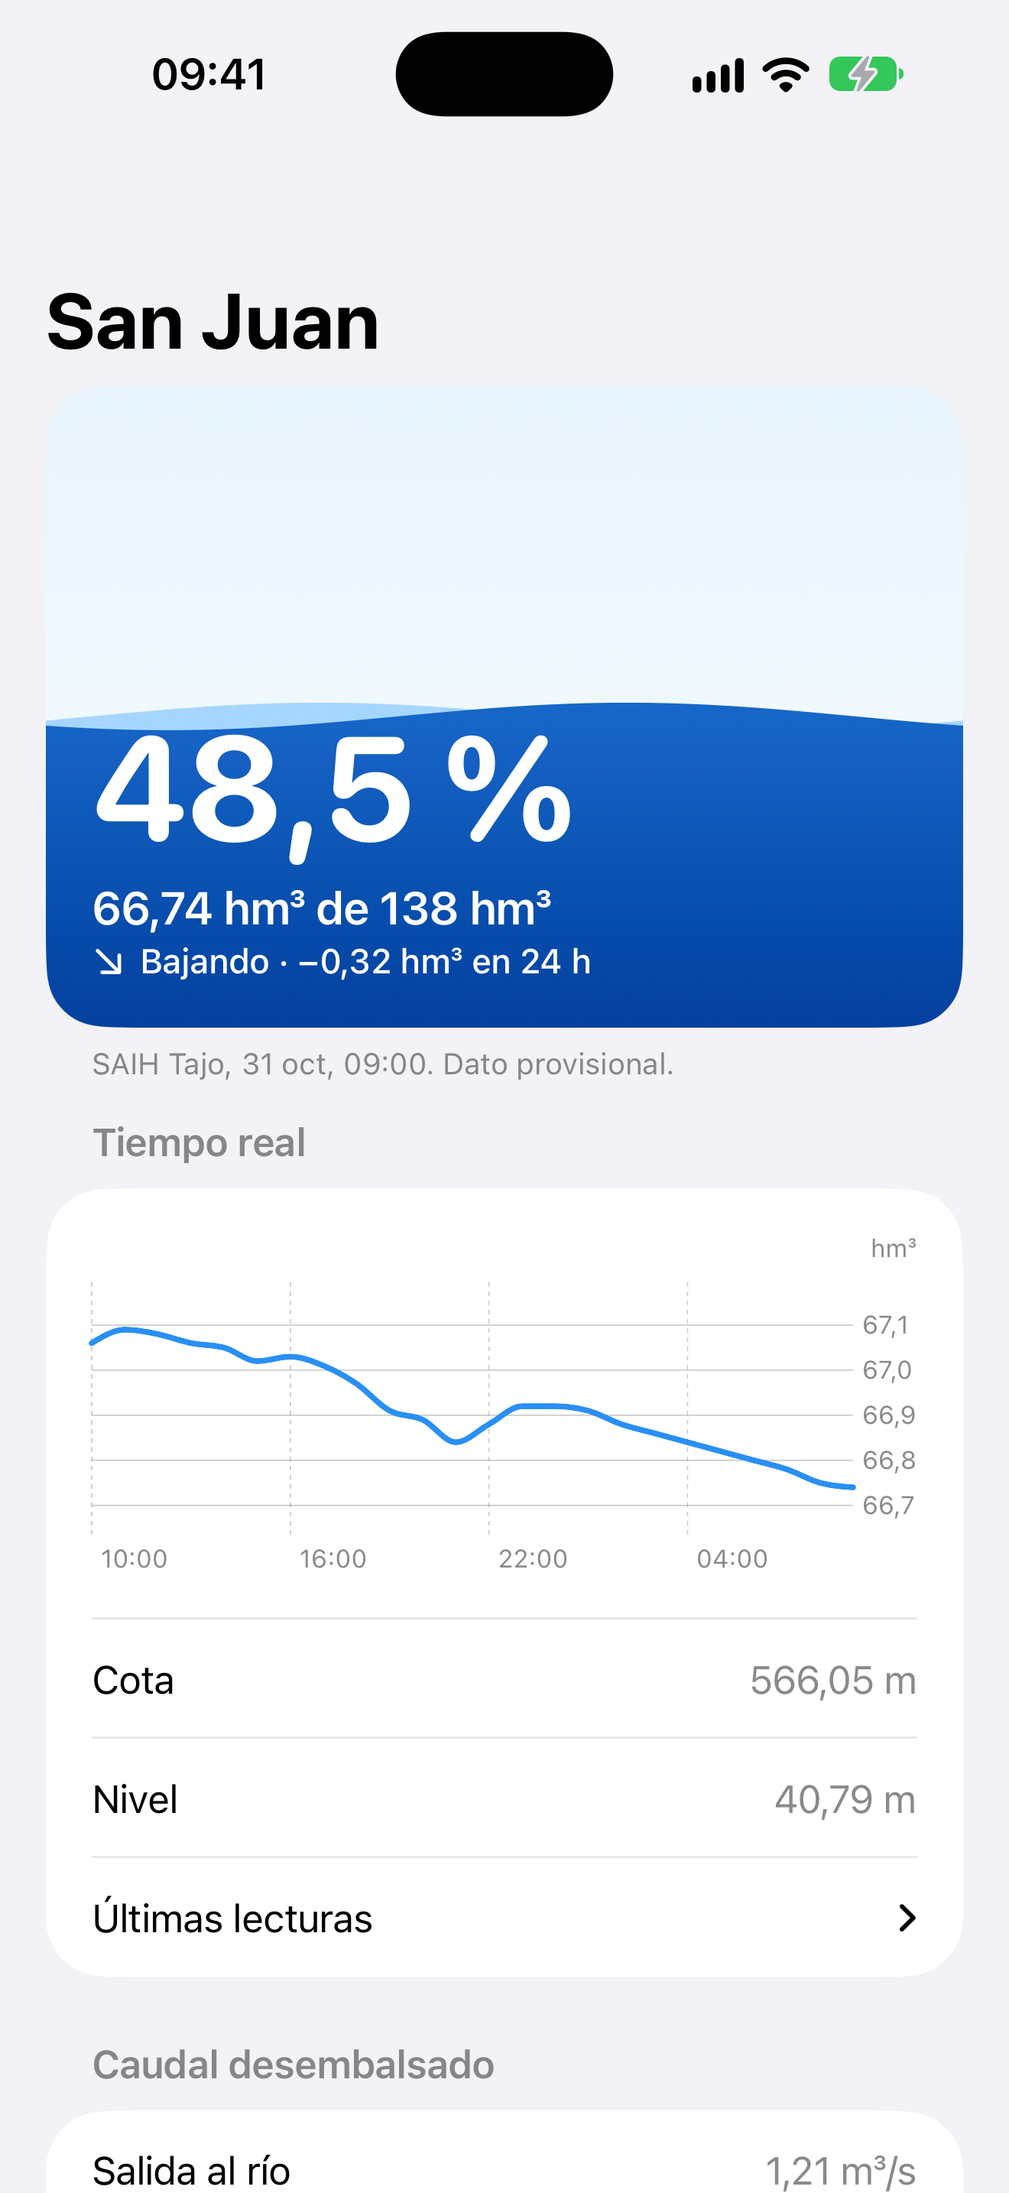
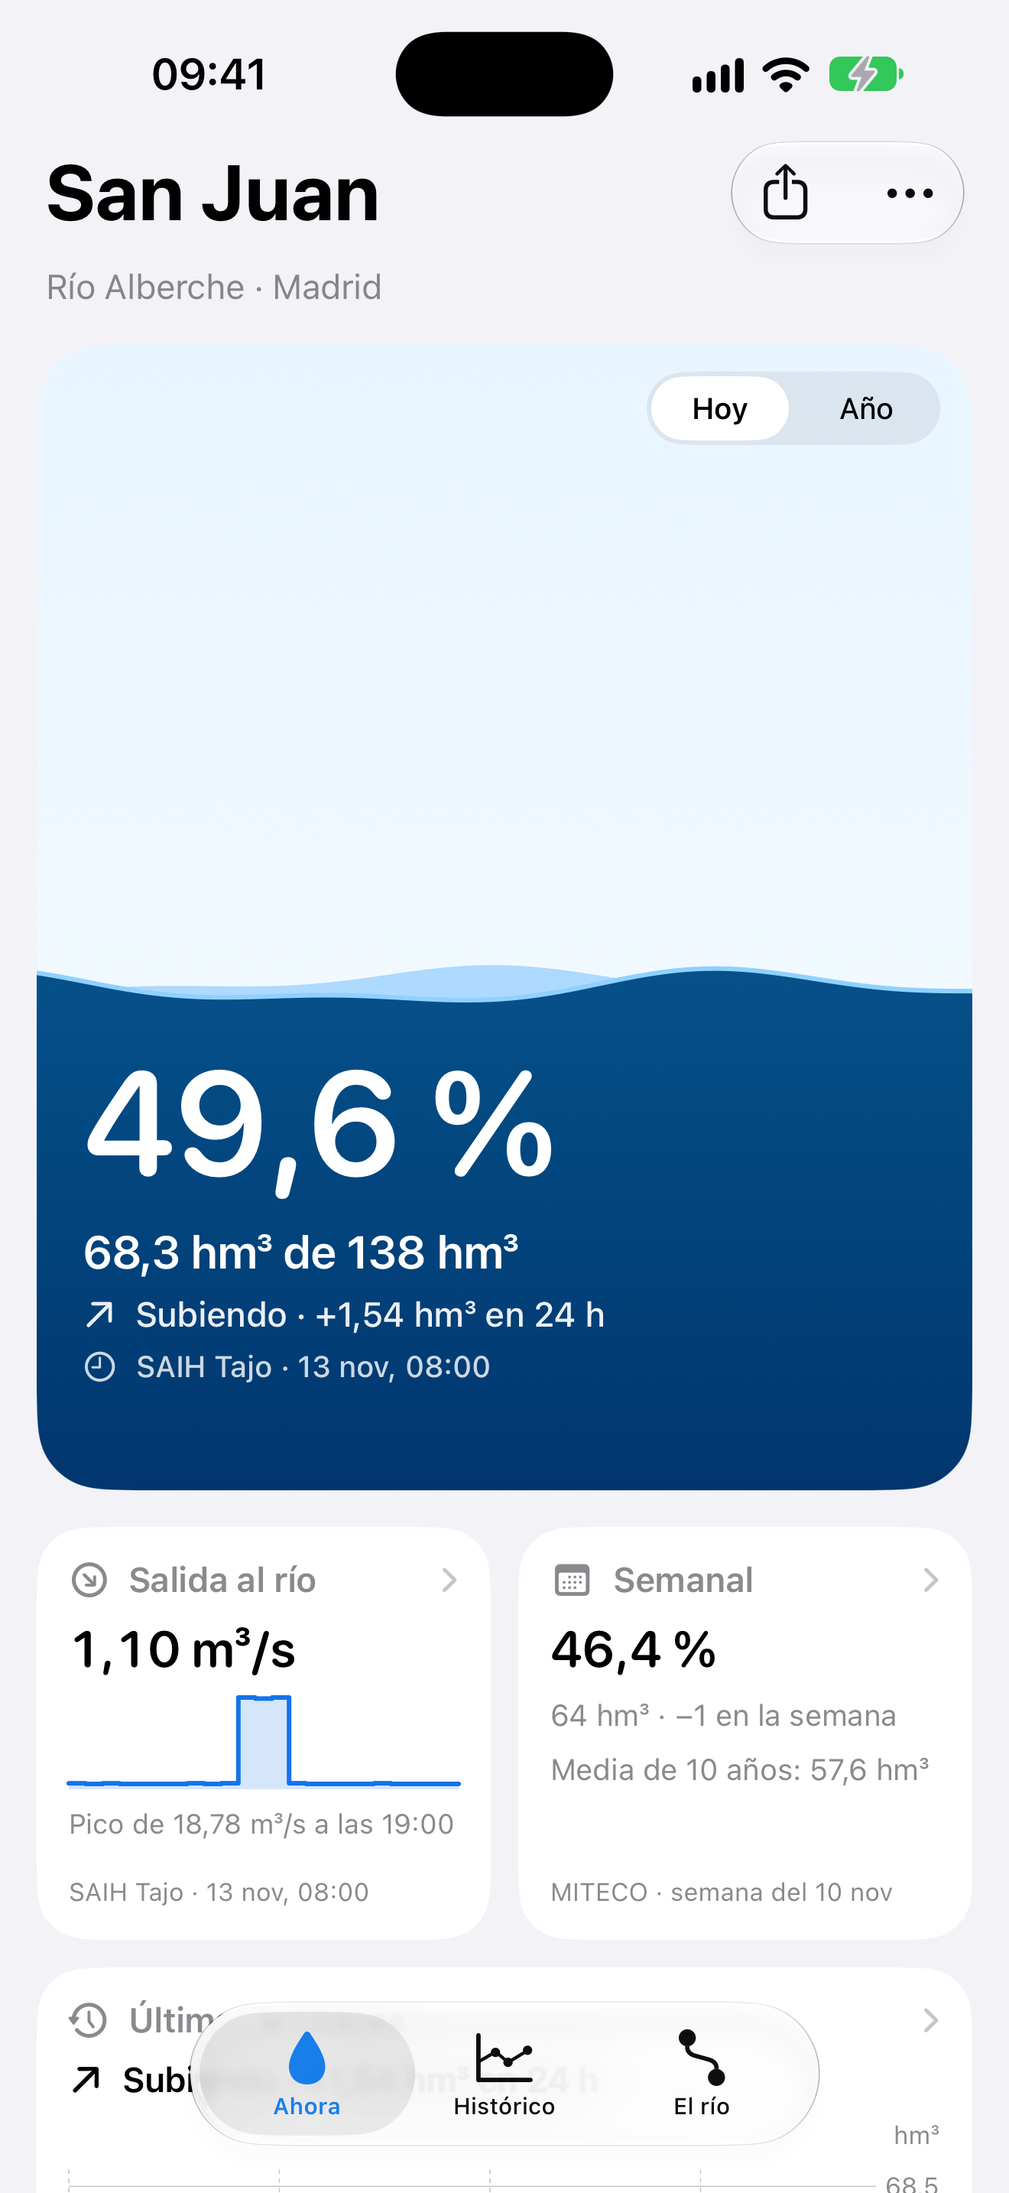
chore(store): 2.0 screenshots with a new design, a widgets image, 2.0 listing texts, version from the project, build 6

diff --git a/scripts/make-creative-assets.swift b/scripts/make-creative-assets.swift
@@ -115,60 +115,196 @@ try render("search-results-3840x2560.png", width: 3840, height: 2560) { context 
     drawText("Nivel, caudal e histórico del embalse", size: 150, weight: .bold, color: NSColor(cgColor: color(0.01, 0.2, 0.5))!,
              center: CGPoint(x: 1920, y: 2340), width: 3400)
     let height: CGFloat = 2010
-    try drawScreenshot(context, file: "iphone-69-02-boletin.png", centerX: 760, bottom: 90, height: height, radius: 130)
+    try drawScreenshot(context, file: "iphone-69-02-ano.png", centerX: 760, bottom: 90, height: height, radius: 130)
     try drawScreenshot(context, file: "iphone-69-01-ahora.png", centerX: 1920, bottom: 90, height: height, radius: 130)
-    try drawScreenshot(context, file: "iphone-69-04-historico.png", centerX: 3080, bottom: 90, height: height, radius: 130)
+    try drawScreenshot(context, file: "iphone-69-03-historico.png", centerX: 3080, bottom: 90, height: height, radius: 130)
 }
 
 // MARK: - Store screenshots
 
-/// Headline and subtitle for each screen, keyed by the end of the file name.
-let captions: [String: (String, String)] = [
-    "01-ahora": ("El embalse, ahora", "Nivel, volumen y tendencia, cada hora"),
-    "02-boletin": ("¿Más o menos que otros años?", "El boletín semanal, con el año pasado y la media de 10 años"),
-    "03-alberche": ("Todo el Alberche", "Burguillo, San Juan y Picadas, y la lluvia en la cuenca"),
-    "04-historico": ("Desde 1988", "Cada semana del histórico, con mínimos y máximos"),
-    "05-ficha": ("Datos oficiales", "SAIH Tajo y MITECO, con su fuente y su fecha"),
-    "05-widget": ("Un vistazo, sin abrir la app", "Widgets que suben y bajan con el agua"),
+/// One store image: a small label, the headline and a line under it, and whether it sits on deep water (white text)
+/// or on the sky with waves at the bottom (navy text). The styles alternate, so the set reads as a sequence.
+struct Caption {
+    var label: String
+    var title: String
+    var subtitle: String
+    var deep: Bool
+}
+
+/// Keyed by the end of the file name. Watch shots stay as they are: the store draws its own watch around them.
+let captions: [String: Caption] = [
+    "01-ahora": Caption(label: "SAIH Tajo · cada hora", title: "El agua de San Juan, ahora",
+                        subtitle: "Nivel, volumen y tendencia, con el agua moviéndose a su altura real", deep: true),
+    "02-ano": Caption(label: "Hoy | Año", title: "Un año de un vistazo",
+                      subtitle: "La misma agua se convierte en los últimos 12 meses, con el año pasado detrás", deep: false),
+    "03-historico": Caption(label: "MITECO · desde 1988", title: "¿Más o menos que otros años?",
+                            subtitle: "Este año, el anterior, la media de 10 años y el rango de cada semana", deep: true),
+    "04-el-rio": Caption(label: "Alberche", title: "Todo el río",
+                         subtitle: "Burguillo, San Juan y Picadas, de aguas arriba a aguas abajo, y la lluvia en la cuenca", deep: false),
+    "05-widgets": Caption(label: "Widgets", title: "Sin abrir la app",
+                          subtitle: "En la pantalla de inicio y de bloqueo, con el agua a su altura", deep: true),
 ]
 
-func caption(for file: String) -> (String, String)? {
-    // Watch shots stay as they are: the store draws its own watch around them.
+func caption(for file: String) -> Caption? {
     guard !file.hasPrefix("watch-") else { return nil }
     return captions.first { file.hasSuffix("\($0.key).png") }?.value
 }
 
-/// The shot in a dark bezel, sinking below the bottom edge, with the headline in the sky above it.
-func frame(_ context: CGContext, shot: CGImage, width: CGFloat, height: CGFloat, title: String, subtitle: String) {
-    let wide = width / height > 0.62
-    // Text scales with the short side, so landscape shots (iPhone Duo open) don't get a giant headline.
-    let unit = min(width, height * 0.75)
-    let small = wide && width <= height
-    drawWater(context, width: width, height: height, level: 0.4)
-    let navy = NSColor(cgColor: color(0.01, 0.2, 0.5))!
-    drawText(title, size: unit * (small ? 0.058 : 0.074), weight: .bold, color: navy,
-             center: CGPoint(x: width / 2, y: height * 0.905), width: width * 0.88)
-    drawText(subtitle, size: unit * (small ? 0.03 : 0.04), weight: .medium, color: NSColor(cgColor: color(0.16, 0.33, 0.6))!,
-             center: CGPoint(x: width / 2, y: height * (width > height ? 0.83 : 0.845)), width: width * 0.84)
+let navy = NSColor(cgColor: color(0.02, 0.17, 0.40))!
 
-    let screenWidth = width > height ? width * 0.7 : width * (wide ? 0.8 : 0.78)
+/// Deep water, top to bottom, with a lighter crest across the top third.
+func drawDeep(_ context: CGContext, width: CGFloat, height: CGFloat) {
+    fill(context, path: nil, height: height, top: color(0.05, 0.42, 0.70), bottom: color(0.01, 0.13, 0.33))
+    context.saveGState()
+    context.setAlpha(0.18)
+    fill(context, path: wave(width: width, baseline: height * 0.72, phase: 1.2, amplitude: height * 0.018, cycles: 1.4),
+         height: height, top: color(0.56, 0.82, 1.0), bottom: color(0.56, 0.82, 1.0, 0))
+    context.restoreGState()
+}
+
+func drawLabel(_ text: String, deep: Bool, center: CGPoint, size: CGFloat) {
+    let font = NSFont.systemFont(ofSize: size, weight: .semibold)
+    let attributes: [NSAttributedString.Key: Any] = [.font: font, .foregroundColor: deep ? NSColor.white : navy, .kern: size * 0.04]
+    let string = NSAttributedString(string: text.uppercased(), attributes: attributes)
+    let box = string.size()
+    let pill = CGRect(x: center.x - box.width / 2 - size * 0.9, y: center.y - box.height / 2 - size * 0.45,
+                      width: box.width + size * 1.8, height: box.height + size * 0.9)
+    let context = NSGraphicsContext.current!.cgContext
+    context.saveGState()
+    context.addPath(CGPath(roundedRect: pill, cornerWidth: pill.height / 2, cornerHeight: pill.height / 2, transform: nil))
+    context.setFillColor(deep ? color(1, 1, 1, 0.16) : color(0.02, 0.17, 0.40, 0.08))
+    context.fillPath()
+    context.restoreGState()
+    string.draw(at: CGPoint(x: center.x - box.width / 2, y: center.y - box.height / 2))
+}
+
+func roundedTitle(_ text: String, size: CGFloat, color textColor: NSColor, center: CGPoint, width: CGFloat) {
+    let base = NSFont.systemFont(ofSize: size, weight: .heavy)
+    let font = base.fontDescriptor.withDesign(.rounded).flatMap { NSFont(descriptor: $0, size: size) } ?? base
+    let style = NSMutableParagraphStyle()
+    style.alignment = .center
+    style.lineHeightMultiple = 0.92
+    let string = NSAttributedString(string: text, attributes: [.font: font, .foregroundColor: textColor, .paragraphStyle: style])
+    let box = string.boundingRect(with: CGSize(width: width, height: .greatestFiniteMagnitude), options: [.usesLineFragmentOrigin])
+    string.draw(with: CGRect(x: center.x - width / 2, y: center.y - box.height / 2, width: width, height: box.height), options: [.usesLineFragmentOrigin])
+}
+
+/// Draws `string` with its top at `top` (CoreGraphics coordinates, y up), centred, and returns its height.
+@discardableResult
+func drawBlock(_ string: NSAttributedString, top: CGFloat, centerX: CGFloat, width: CGFloat) -> CGFloat {
+    let box = string.boundingRect(with: CGSize(width: width, height: .greatestFiniteMagnitude), options: [.usesLineFragmentOrigin])
+    string.draw(with: CGRect(x: centerX - width / 2, y: top - box.height, width: width, height: box.height), options: [.usesLineFragmentOrigin])
+    return box.height
+}
+
+func centred(_ text: String, font: NSFont, color textColor: NSColor, lineHeight: CGFloat = 1) -> NSAttributedString {
+    let style = NSMutableParagraphStyle()
+    style.alignment = .center
+    style.lineHeightMultiple = lineHeight
+    return NSAttributedString(string: text, attributes: [.font: font, .foregroundColor: textColor, .paragraphStyle: style])
+}
+
+/// The background, then the label, headline and line under it stacked from the top by their measured heights, so a
+/// two-line headline never runs into the text below it. Returns where the device or content may start (its top).
+func drawBackdrop(_ context: CGContext, width: CGFloat, height: CGFloat, caption: Caption) -> CGFloat {
+    let unit = min(width, height * 0.56)
+    if caption.deep {
+        drawDeep(context, width: width, height: height)
+    } else {
+        drawWater(context, width: width, height: height, level: 0.22)
+    }
+    let ink = caption.deep ? NSColor.white : navy
+    let soft = caption.deep ? NSColor.white.withAlphaComponent(0.82) : NSColor(cgColor: color(0.10, 0.27, 0.52))!
+    var cursor = height - unit * 0.07
+    let labelSize = unit * 0.03
+    let pillHeight = labelSize * 2.1
+    drawLabel(caption.label, deep: caption.deep, center: CGPoint(x: width / 2, y: cursor - pillHeight / 2), size: labelSize)
+    cursor -= pillHeight + unit * 0.03
+    let base = NSFont.systemFont(ofSize: unit * 0.088, weight: .heavy)
+    let titleFont = base.fontDescriptor.withDesign(.rounded).flatMap { NSFont(descriptor: $0, size: unit * 0.088) } ?? base
+    cursor -= drawBlock(centred(caption.title, font: titleFont, color: ink, lineHeight: 0.92), top: cursor, centerX: width / 2, width: width * 0.88)
+    cursor -= unit * 0.022
+    cursor -= drawBlock(centred(caption.subtitle, font: .systemFont(ofSize: unit * 0.036, weight: .medium), color: soft),
+                        top: cursor, centerX: width / 2, width: width * 0.8)
+    return cursor - unit * 0.06
+}
+
+/// The shot in a dark bezel, sinking below the bottom edge so the top of the screen, the water card, is what you see.
+func frame(_ context: CGContext, shot: CGImage, width: CGFloat, height: CGFloat, caption: Caption) {
+    let top = drawBackdrop(context, width: width, height: height, caption: caption)
+    let tablet = width / height > 0.7
+    let screenWidth = width * (tablet ? 0.84 : 0.80)
     let screenHeight = screenWidth * CGFloat(shot.height) / CGFloat(shot.width)
-    let screen = CGRect(x: (width - screenWidth) / 2, y: height * (width > height ? 0.76 : 0.79) - screenHeight, width: screenWidth, height: screenHeight)
-    let bezel = screenWidth * 0.022
-    let radius = screenWidth * (wide ? 0.04 : 0.11)
+    let screen = CGRect(x: (width - screenWidth) / 2, y: top - screenHeight, width: screenWidth, height: screenHeight)
+    let bezel = screenWidth * (tablet ? 0.018 : 0.024)
+    let radius = screenWidth * (tablet ? 0.045 : 0.12)
     let body = screen.insetBy(dx: -bezel, dy: -bezel)
     let bodyPath = CGPath(roundedRect: body, cornerWidth: radius + bezel, cornerHeight: radius + bezel, transform: nil)
     context.saveGState()
-    context.setShadow(offset: CGSize(width: 0, height: -height * 0.01), blur: width * 0.06, color: color(0, 0.08, 0.25, 0.45))
+    context.setShadow(offset: CGSize(width: 0, height: -height * 0.012), blur: width * 0.07, color: color(0, 0.05, 0.2, 0.55))
     context.addPath(bodyPath)
-    context.setFillColor(color(0.06, 0.08, 0.12))
+    context.setFillColor(color(0.05, 0.06, 0.09))
     context.fillPath()
+    context.restoreGState()
+    // A thin light edge on the bezel, like a real frame catching the light.
+    context.saveGState()
+    context.addPath(bodyPath)
+    context.setStrokeColor(color(1, 1, 1, 0.14))
+    context.setLineWidth(bezel * 0.25)
+    context.strokePath()
     context.restoreGState()
     context.saveGState()
     context.addPath(CGPath(roundedRect: screen, cornerWidth: radius, cornerHeight: radius, transform: nil))
     context.clip()
     context.draw(shot, in: screen)
     context.restoreGState()
+}
+
+/// A widget render from WidgetSnapshotTests, without the 8 pt grey margin the test adds, with its corners rounded again.
+func widget(_ name: String) -> CGImage? {
+    guard let image = NSImage(contentsOfFile: "build/widget-snapshots/\(name).png")?.cgImage(forProposedRect: nil, context: nil, hints: nil) else { return nil }
+    let inset = 24
+    return image.cropping(to: CGRect(x: inset, y: inset, width: image.width - inset * 2, height: image.height - inset * 2))
+}
+
+func drawWidget(_ context: CGContext, _ image: CGImage, in rect: CGRect, radius: CGFloat) {
+    let path = CGPath(roundedRect: rect, cornerWidth: radius, cornerHeight: radius, transform: nil)
+    context.saveGState()
+    context.setShadow(offset: CGSize(width: 0, height: -rect.height * 0.03), blur: rect.width * 0.08, color: color(0, 0.05, 0.2, 0.45))
+    context.addPath(path)
+    context.setFillColor(color(1, 1, 1))
+    context.fillPath()
+    context.restoreGState()
+    context.saveGState()
+    context.addPath(path)
+    context.clip()
+    context.draw(image, in: rect)
+    context.restoreGState()
+}
+
+/// "Sin abrir la app": the widgets as a Home Screen, from scripts/store-widgets.sh's renders.
+func renderWidgetsShot(name: String, width: Int, height: Int) throws {
+    guard let large = widget("store-year"), let small = widget("store-small"), let river = widget("store-river"),
+          let medium = widget("store-medium") else {
+        print("   (no widget renders: run scripts/store-widgets.sh)")
+        return
+    }
+    try render("../\(name)", width: width, height: height) { context in
+        let w = CGFloat(width), h = CGFloat(height)
+        let top = drawBackdrop(context, width: w, height: h, caption: captions["05-widgets"]!)
+        let margin = w * 0.08, gap = w * 0.05
+        let full = w - margin * 2
+        let half = (full - gap) / 2
+        let radius = full * 0.065
+        var y = top - full * 170 / 364
+        drawWidget(context, large, in: CGRect(x: margin, y: y, width: full, height: full * 170 / 364), radius: radius)
+        y -= gap + half
+        drawWidget(context, small, in: CGRect(x: margin, y: y, width: half, height: half), radius: radius)
+        drawWidget(context, river, in: CGRect(x: margin + half + gap, y: y, width: half, height: half), radius: radius)
+        y -= gap + full * 170 / 364
+        drawWidget(context, medium, in: CGRect(x: margin, y: y, width: full, height: full * 170 / 364), radius: radius)
+    }
+    print("   \(name)")
 }
 
 /// Frames every raw shot in `from` that has a caption into `to`, and copies the rest unchanged.
@@ -178,17 +314,23 @@ func frameAll(from: String, rename: (String) -> String) throws {
     for file in files {
         let target = output.appending(path: "..").appending(path: rename(file))
         try FileManager.default.createDirectory(at: target.deletingLastPathComponent(), withIntermediateDirectories: true)
-        guard let (title, subtitle) = caption(for: file),
+        guard let caption = caption(for: file),
               let shot = NSImage(contentsOfFile: "\(from)/\(file)")?.cgImage(forProposedRect: nil, context: nil, hints: nil) else {
             try? FileManager.default.removeItem(at: target)
             try FileManager.default.copyItem(atPath: "\(from)/\(file)", toPath: target.path)
             continue
         }
         try render("../\(rename(file))", width: shot.width, height: shot.height) { context in
-            frame(context, shot: shot, width: CGFloat(shot.width), height: CGFloat(shot.height), title: title, subtitle: subtitle)
+            frame(context, shot: shot, width: CGFloat(shot.width), height: CGFloat(shot.height), caption: caption)
         }
         print("   \(rename(file))")
     }
+}
+
+// Old shots from earlier sets would be uploaded too: start clean.
+for folder in ["fastlane/screenshots/es-ES", "fastlane/metadata/android/es-ES/images/phoneScreenshots",
+               "fastlane/metadata/android/es-ES/images/sevenInchScreenshots", "fastlane/metadata/android/es-ES/images/tenInchScreenshots"] {
+    try? FileManager.default.removeItem(atPath: folder)
 }
 
 // Duo shots go apart from the rest: deliver doesn't recognise their sizes.
@@ -196,3 +338,4 @@ try frameAll(from: "fastlane/screenshots_raw/ios") { file in
     file.hasPrefix("duo-") ? "screenshots_duo/es-ES/\(file)" : "screenshots/es-ES/\(file)"
 }
 try frameAll(from: "fastlane/screenshots_raw/android") { "metadata/android/es-ES/images/\($0)" }
+try renderWidgetsShot(name: "screenshots/es-ES/iphone-69-05-widgets.png", width: 1320, height: 2868)

diff --git a/ios/EmbalseKit/Tests/EmbalseKitTests/WidgetSnapshotTests.swift b/ios/EmbalseKit/Tests/EmbalseKitTests/WidgetSnapshotTests.swift
@@ -106,6 +106,27 @@ final class WidgetSnapshotTests: XCTestCase {
         try FirestoreClient.makeDecoder().decode(History.self, from: Data(contentsOf: Fixture.root.appending(path: "contract/fixtures/history.json")))
     }
 
+    /// For the store's widget image: today's real data, when scripts/store-widgets.sh has saved it to build/store-data.
+    /// Rendered in the test run's language, so it matches the screenshots.
+    func testStoreWidgets() throws {
+        let folder = Fixture.root.appending(path: "build/store-data")
+        guard let snapshotData = try? Data(contentsOf: folder.appending(path: "snapshot.json")),
+              let historyData = try? Data(contentsOf: folder.appending(path: "history.json")) else {
+            throw XCTSkip("No build/store-data")
+        }
+        let decoder = FirestoreClient.makeDecoder()
+        let snapshot = try decoder.decode(Snapshot.self, from: snapshotData)
+        let history = try decoder.decode(History.self, from: historyData)
+        let now = snapshot.live.observedAt.addingTimeInterval(600)
+        try render("store-small", size: small) { SmallWidgetView(snapshot: snapshot, now: now) }
+        try render("store-medium", size: medium) { MediumWidgetView(snapshot: snapshot, now: now) }
+        try render("store-year", size: medium) { YearWidgetView(snapshot: snapshot, now: now, history: history) }
+        try render("store-large", size: large) { LargeWidgetView(snapshot: snapshot, now: now) }
+        try render("store-river", size: small) { RiverWidgetView(snapshot: snapshot, now: now) }
+        try render("store-comparison", size: large) { ComparisonWidgetView(snapshot: snapshot, history: history) }
+        try render("store-small-dark", size: small, scheme: .dark) { SmallWidgetView(snapshot: snapshot, now: now) }
+    }
+
     func testHistory() throws {
         let snapshot = try snapshot()
         let history = try history()

diff --git a/ios/EmbalseKit/Sources/EmbalseKit/Support/Format.swift b/ios/EmbalseKit/Sources/EmbalseKit/Support/Format.swift
@@ -5,7 +5,9 @@ import Foundation
 /// It follows the app's language, Spanish or English, with the device's region when it speaks the same language.
 public enum Format {
     /// The language the app is showing, with the device's region when that region speaks it.
-    public static let locale: Locale = resolveLocale(language: Bundle.main.preferredLocalizations.first ?? "es", current: .current)
+    // EmbalseKit's own bundle has Spanish and English, like every app target, so it picks the same language as the app
+    // and also works where the main bundle has only one (the test runner).
+    public static let locale: Locale = resolveLocale(language: Bundle.module.preferredLocalizations.first ?? "es", current: .current)
 
     static func resolveLocale(language: String, current: Locale) -> Locale {
         let language = language.hasPrefix("en") ? "en" : "es"

diff --git a/CLAUDE.md b/CLAUDE.md
@@ -26,6 +26,7 @@ Check `git rev-parse --show-toplevel` before committing. Commits: Conventional C
 | `make generate` | Regenerates the Xcode project from `ios/project.yml`. Never edit the `.xcodeproj`. |
 | `make firestore-check` | Checks the published data and the access rules from outside, with no credentials. |
 | `scripts/export-screenshots.sh` | Raw App Store screenshots from a Debug build, into `fastlane/screenshots_raw/ios`. Also `--watch`, `--duo-outer` and `--duo-inner`, which needs iPhone Duo open in Device Hub. |
+| `scripts/store-widgets.sh` | Renders the widgets with today's real data, in Spanish, for the store's widget image. Run before `make-creative-assets`. |
 | `swift scripts/make-creative-assets.swift` | Frames the raw screenshots on the icon's water with a headline, into the folders `fastlane` and Play use, and draws the header, search results and feature graphic. Upload the header, search results and Duo shots in App Store Connect: `fastlane` doesn't handle them. Headlines are in `captions`. |
 | `scripts/release.sh` | Archives and uploads to App Store Connect. Bump `CURRENT_PROJECT_VERSION` first. |
 | `fastlane metadata` | Pushes the listing and screenshots as a draft. Never submits for review. |
